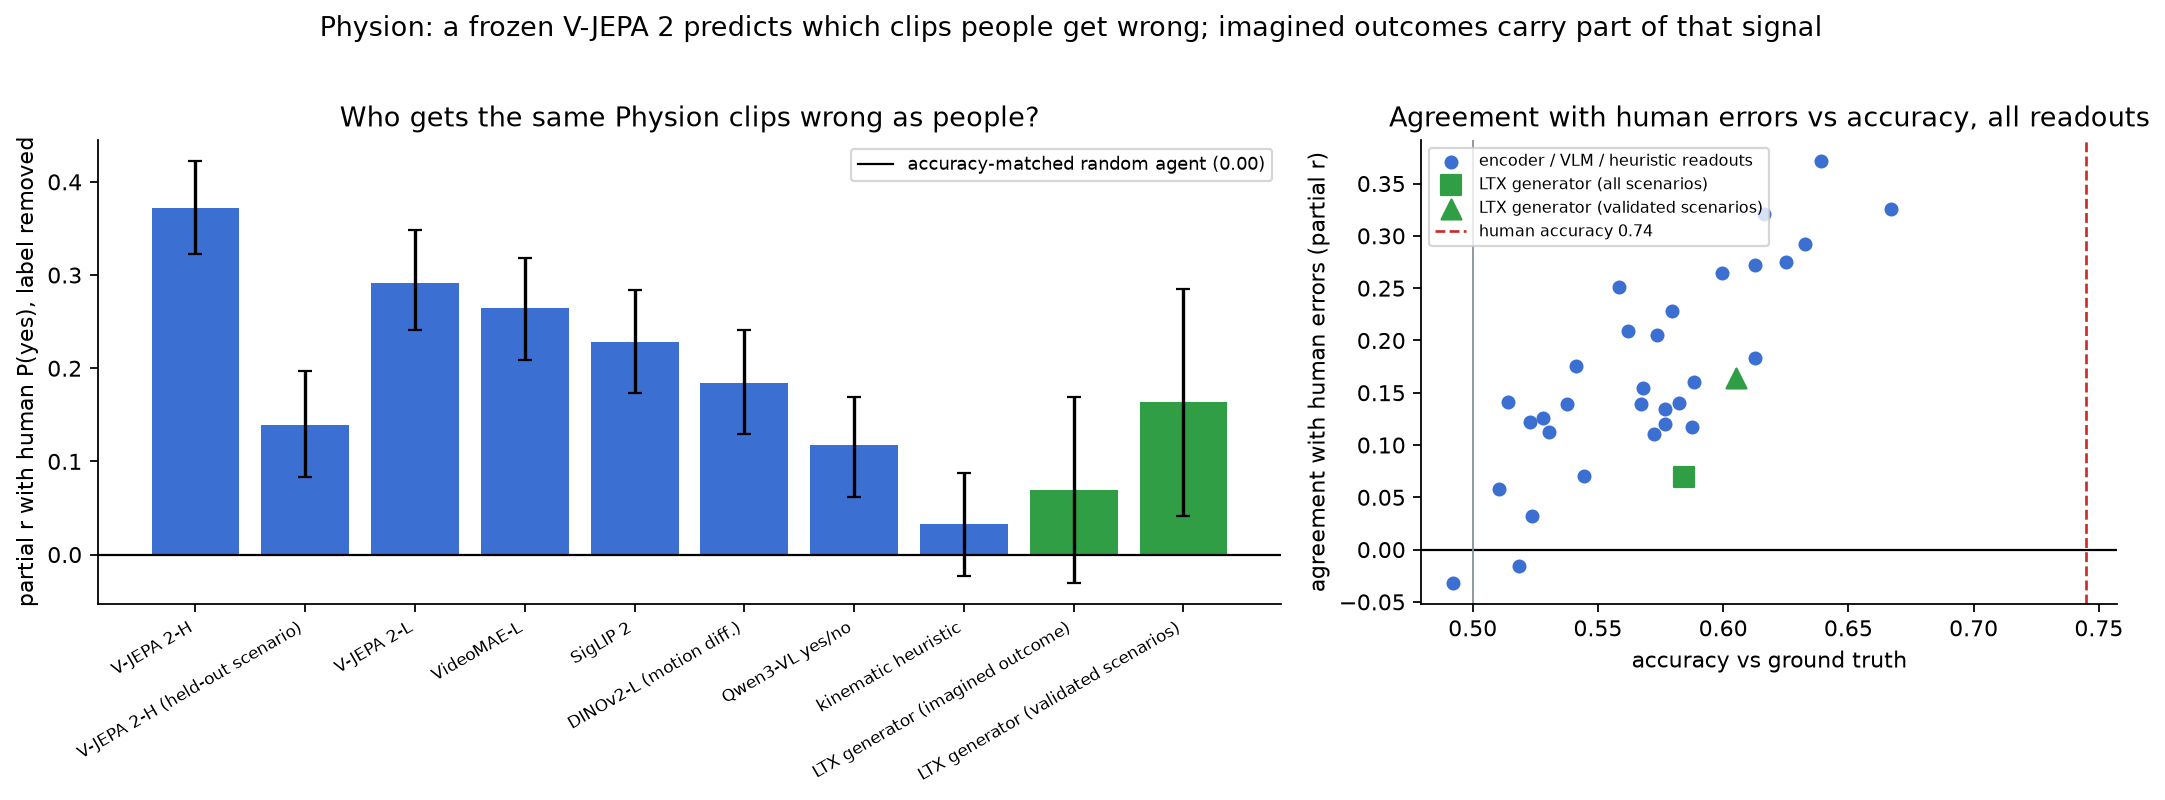
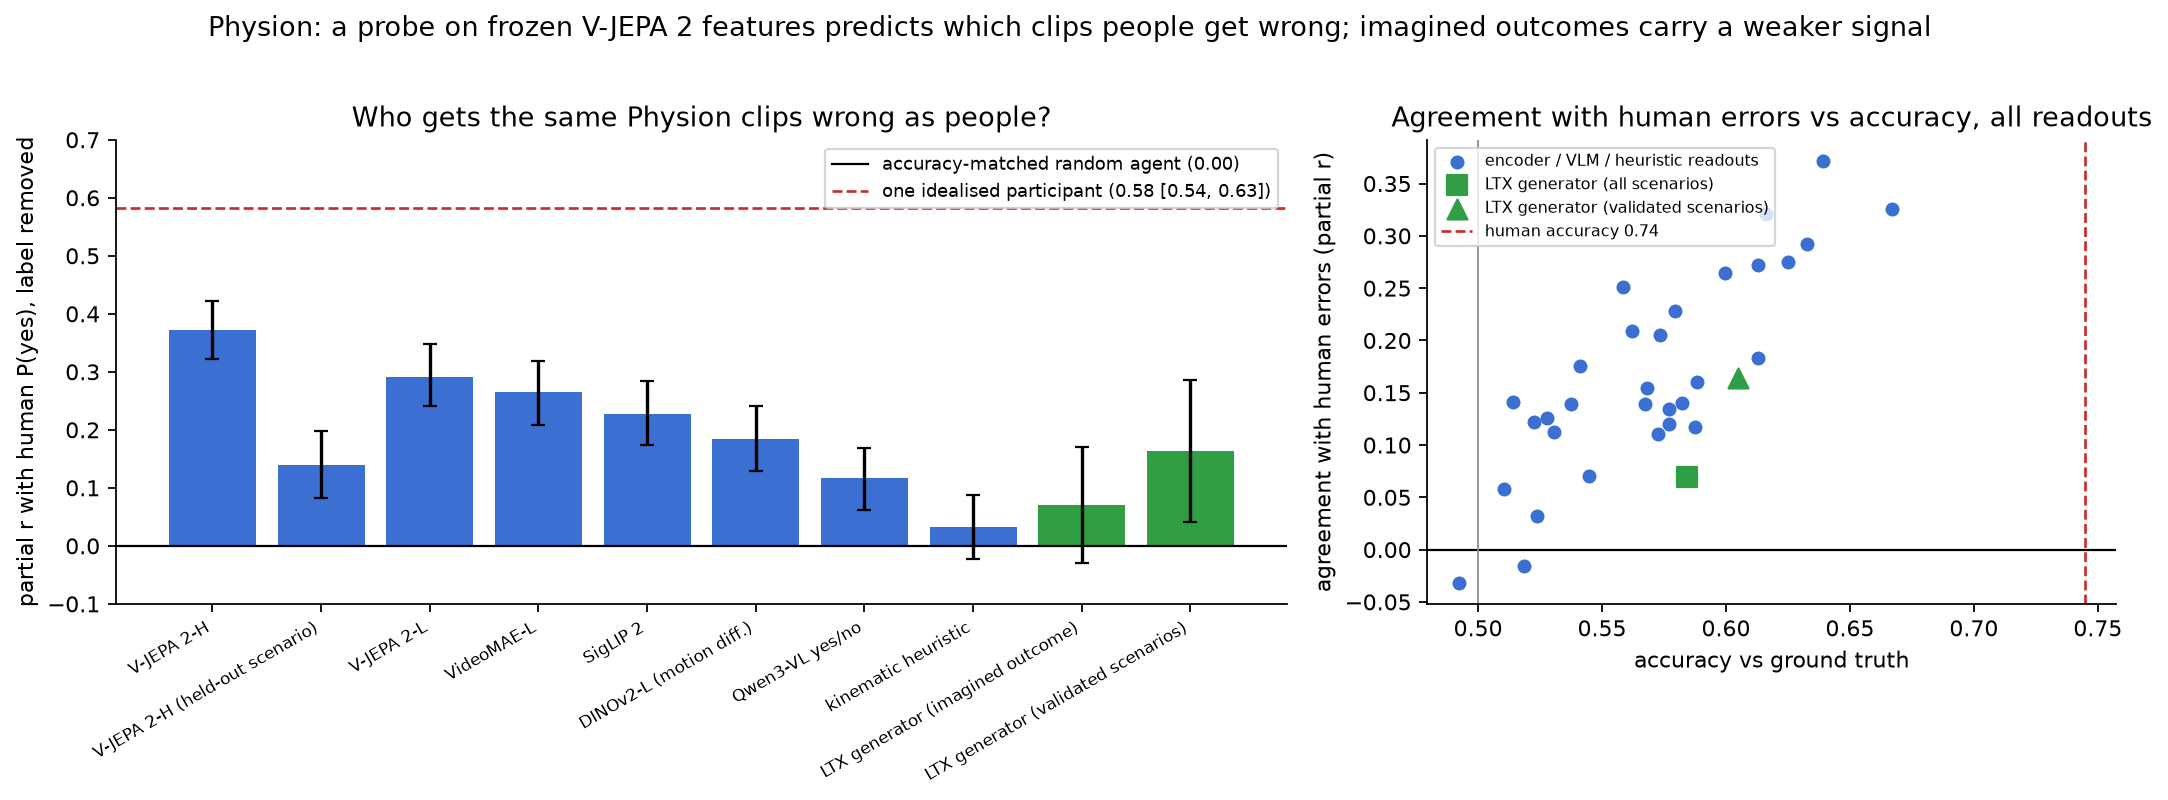
Review corrections: detector accuracy, generator comparators, selection disclosure, participant ceiling, plane figure

diff --git a/scripts/make_readme_figures.py b/scripts/make_readme_figures.py
@@ -1,6 +1,6 @@
 """Figures for the README, built from the committed result files.
 
-Outputs docs/figures/{cloth_gap,physion_error_agreement,events_scale}.png and two cropped contact sheets.
+Outputs docs/figures/{cloth_gap,physion_error_agreement,events_scale,plane}.png and two cropped contact sheets.
 Run: python scripts/make_readme_figures.py
 """
 
@@ -14,6 +14,7 @@ import matplotlib
 matplotlib.use("Agg")
 import matplotlib.pyplot as plt  # noqa: E402
 import numpy as np  # noqa: E402
+import pandas as pd  # noqa: E402
 from PIL import Image  # noqa: E402
 
 REPO = Path(__file__).resolve().parents[1]
@@ -56,8 +57,21 @@ def cloth():
     fig.tight_layout(); fig.savefig(OUT / "cloth_gap.png", dpi=160, bbox_inches="tight"); plt.close(fig)
 
 
+def single_participant_ceiling(n_draws: int = 1000, seed: int = 0) -> tuple[float, float, float]:
+    """Partial r (given the label) of one idealised participant: one Bernoulli(P(yes)) draw per stimulus."""
+    st = pd.read_csv(RES / "physion" / "stimuli.csv")
+    h = st["p_yes_human"].to_numpy(float); y = st["label"].astype(str).str.lower().eq("true").to_numpy(float)
+    rng = np.random.default_rng(seed)
+    def partial(m):
+        rm = m - np.polyval(np.polyfit(y, m, 1), y); rh = h - np.polyval(np.polyfit(y, h, 1), y)
+        return float(np.corrcoef(rm, rh)[0, 1])
+    vals = np.array([partial((rng.random(len(h)) < h).astype(float)) for _ in range(n_draws)])
+    return float(vals.mean()), float(np.percentile(vals, 2.5)), float(np.percentile(vals, 97.5))
+
+
 def physion():
     p = json.load(open(RES / "physion" / "physion_results.json"))
+    ceil, ceil_lo, ceil_hi = single_participant_ceiling()
     pick = [("vjepaH/last_grid/within", "V-JEPA 2-H"), ("vjepaH/last_grid/loso", "V-JEPA 2-H\n(held-out scenario)"),
             ("vjepaL/last_slot/within", "V-JEPA 2-L"), ("vmaeL/last_grid/within", "VideoMAE-L"), ("siglip2/last/within", "SigLIP 2"),
             ("dinoL/last_minus_first/within", "DINOv2-L\n(motion diff.)"), ("vlm", "Qwen3-VL\nyes/no"), ("kinematic/within", "kinematic\nheuristic")]
@@ -76,6 +90,8 @@ def physion():
     fig, (a, b) = plt.subplots(1, 2, figsize=(13.5, 4.8), gridspec_kw={"width_ratios": [1.7, 1]})
     a.bar(x, vals, yerr=[vals - los, his - vals], color=cols, capsize=3)
     a.axhline(0, color="k", lw=1, label="accuracy-matched random agent (0.00)")
+    a.axhline(ceil, color=RED, ls="--", lw=1.2, label=f"one idealised participant ({ceil:.2f} [{ceil_lo:.2f}, {ceil_hi:.2f}])")
+    a.set_ylim(-0.1, 0.7)
     a.set_xticks(x); a.set_xticklabels([l.replace("\n", " ") for l in labels], fontsize=7.5, rotation=30, ha="right")
     a.set_ylabel("partial r with human P(yes), label removed")
     a.set_title("Who gets the same Physion clips wrong as people?"); a.legend(fontsize=8, loc="upper right")
@@ -89,7 +105,7 @@ def physion():
     b.axvline(hum, color=RED, ls="--", lw=1.2, label=f"human accuracy {hum:.2f}")
     b.set_xlabel("accuracy vs ground truth"); b.set_ylabel("agreement with human errors (partial r)")
     b.set_title("Agreement with human errors vs accuracy, all readouts"); b.legend(fontsize=7, loc="upper left")
-    fig.suptitle("Physion: a frozen V-JEPA 2 predicts which clips people get wrong; imagined outcomes carry part of that signal", y=1.02, fontsize=12)
+    fig.suptitle("Physion: a probe on frozen V-JEPA 2 features predicts which clips people get wrong; imagined outcomes carry a weaker signal", y=1.02, fontsize=12)
     fig.tight_layout(); fig.savefig(OUT / "physion_error_agreement.png", dpi=160, bbox_inches="tight"); plt.close(fig)
 
 
@@ -116,6 +132,62 @@ def events():
     fig.tight_layout(); fig.savefig(OUT / "events_scale.png", dpi=160, bbox_inches="tight"); plt.close(fig)
 
 
+def plane():
+    """Accuracy x human-likeness plane for both studies (best layer / pooling per model, as in the tables)."""
+    c = json.load(open(RES / "cloth" / "cloth_results.json"))
+    p = json.load(open(RES / "physion" / "physion_results.json"))
+    fig, (a, b) = plt.subplots(1, 2, figsize=(12.5, 5.2))
+    off = {"dinog": (4, -9), "siglip2": (-44, 6), "vjepaH": (4, -9)}
+    for s_ in c["summary"]:
+        m = s_["model"]; L = c["models"][m]["layers"][s_["best_layer"]]["occluded"]
+        x, y = L["cells"]["same_category"], L["r_same"]["mean"]
+        a.scatter(x, y, c=BLUE, s=46, zorder=3); a.annotate(NAMES[m], (x, y), fontsize=7, xytext=off.get(m, (4, 3)), textcoords="offset points")
+        dd = L["dedrape_loco"]; a.scatter(dd["cells"]["same_category"], dd["r_same"]["mean"], marker="o", facecolors="none", edgecolors=ORANGE, s=46, zorder=3)
+        im = L["imagine_drape"]; a.scatter(im["cells"]["same_category"], im["r_same"]["mean"], marker="s", c=GREEN, s=30, zorder=3)
+    pb = c["reference"]["PbAS"]["occluded"]["unlimited"]; hum = c["human"]["cells"]["occluded/unlimited"]["same_category"]
+    ceil = c["human"]["ceiling"]["occluded"]["same_category"]["mean"]
+    a.scatter(pb["cells"]["same_category"], pb["r_same"]["mean"], marker="*", c="k", s=150, zorder=4)
+    a.annotate("PbAS (physics engine)", (pb["cells"]["same_category"], pb["r_same"]["mean"]), fontsize=8, xytext=(-108, 6), textcoords="offset points")
+    a.axhline(0, color=GREY, lw=1, ls="--"); a.axhline(ceil, color=GREY, lw=1, ls=":"); a.text(0.56, ceil + 0.015, f"split-half ceiling {ceil:.2f}", fontsize=7.5, color=GREY)
+    a.axvline(hum, color=GREY, lw=1, ls=":"); a.text(hum + 0.007, 0.55, f"humans {hum:.2f}", fontsize=7.5, color=GREY, rotation=90)
+    a.axvline(0.5, color="lightgray", lw=1); a.text(0.503, 0.76, "chance", fontsize=7, color=GREY)
+    a.text(0.31, -0.05, "accuracy-matched random agent: r = 0", fontsize=7.5, color=GREY)
+    a.set_xlim(0.3, 0.85); a.set_ylim(-0.25, 0.8); a.set_xlabel("accuracy, occluded same-category trials"); a.set_ylabel("trial-level r with human accuracy")
+    a.set_title("Shape under cloth (60 hard trials, 25 people per cell)", fontsize=11)
+    from matplotlib.lines import Line2D
+    a.legend(handles=[Line2D([], [], marker="o", color=BLUE, ls="", label="frozen encoder, paper protocol (best layer)"),
+                      Line2D([], [], marker="o", markerfacecolor="none", color=ORANGE, ls="", label="linear de-draping map (held-out category)"),
+                      Line2D([], [], marker="s", color=GREEN, ls="", label="SDXL in the analysis-by-synthesis loop"),
+                      Line2D([], [], marker="*", color="k", ls="", markersize=10, label="PbAS")], fontsize=7.5, loc="lower right")
+    lab = {"vjepaH/last_grid/within": ("V-JEPA 2-H probe", (4, 3)), "vjepaH/last_grid/loso": ("V-JEPA 2-H probe (held-out scenario)", (-60, -11)),
+           "vjepaL/last_slot/within": ("V-JEPA 2-L probe", (4, 3)), "vmaeL/last_grid/within": ("VideoMAE-L probe", (4, 3)),
+           "vmaeL/last_grid/loso": ("VideoMAE-L probe (held-out)", (4, -9)), "siglip2/last/within": ("SigLIP 2 probe", (4, 3)),
+           "dinoL/last_minus_first/within": ("DINOv2-L probe", (4, 3)), "vlm": ("Qwen3-VL", (4, 3)), "kinematic/within": ("kinematic heuristic", (4, 3))}
+    for k, (l, o) in lab.items():
+        r_ = p["readouts"][k]["all"]; b.scatter(r_["accuracy"], r_["partial_r_given_label"], c=BLUE, s=46, zorder=3)
+        b.annotate(l, (r_["accuracy"], r_["partial_r_given_label"]), fontsize=7, xytext=o, textcoords="offset points")
+    g = p["generator"]["ltx"]["p_cal"]
+    b.scatter(g["all"]["accuracy"], g["all"]["partial_r_given_label"], marker="s", c=GREEN, s=46, zorder=3)
+    b.annotate("LTX imagined outcome (all scenarios)", (g["all"]["accuracy"], g["all"]["partial_r_given_label"]), fontsize=7, xytext=(4, -9), textcoords="offset points")
+    b.scatter(g["primary"]["accuracy"], g["primary"]["partial_r_given_label"], marker="^", c=GREEN, s=60, zorder=3)
+    b.annotate("LTX imagined outcome\n(validated scenarios)", (g["primary"]["accuracy"], g["primary"]["partial_r_given_label"]), fontsize=7, xytext=(-8, -24), textcoords="offset points", ha="right")
+    sp, _, _ = single_participant_ceiling()
+    b.axhline(sp, color=RED, lw=1, ls="--"); b.text(0.455, sp + 0.01, f"one idealised participant {sp:.2f}", fontsize=7.5, color=RED)
+    b.axhline(0, color=GREY, lw=1, ls="--"); b.text(0.455, 0.012, "accuracy-matched random agent: partial r = 0", fontsize=7.5, color=GREY)
+    hum_p = np.mean(list(p["human"]["accuracy_by_scenario"].values()))
+    b.axvline(hum_p, color=GREY, lw=1, ls=":"); b.text(hum_p + 0.005, 0.25, f"humans {hum_p:.2f}", fontsize=7.5, color=GREY, rotation=90)
+    b.axvline(0.5, color="lightgray", lw=1); b.text(0.503, 0.62, "chance", fontsize=7, color=GREY)
+    b.set_xlim(0.45, 0.8); b.set_ylim(-0.08, 0.66); b.set_xlabel("accuracy vs ground truth (1.5 s context)"); b.set_ylabel("partial r with human P(yes), label removed")
+    b.set_title("Physion (1,144 clips, 66-96 people each)", fontsize=11)
+    b.legend(handles=[Line2D([], [], marker="o", color=BLUE, ls="", label="probe on frozen features / VLM / heuristic"),
+                      Line2D([], [], marker="s", color=GREEN, ls="", label="LTX-Video imagined outcome, all"),
+                      Line2D([], [], marker="^", color=GREEN, ls="", label="LTX-Video imagined outcome, validated")], fontsize=7.5, loc="upper left")
+    for ax in (a, b):
+        ax.grid(alpha=0.25)
+    fig.suptitle("The accuracy x human-likeness plane: accurate is not the same as human-like", fontsize=12)
+    fig.tight_layout(); fig.savefig(OUT / "plane.png", dpi=170); plt.close(fig)
+
+
 def sheets():
     im = Image.open(RES / "cloth" / "imagined_contact_sheet.png")
     im.save(OUT / "cloth_imagined.png")
@@ -128,5 +200,6 @@ if __name__ == "__main__":
     cloth()
     physion()
     events()
+    plane()
     sheets()
     print("wrote", sorted(p.name for p in OUT.glob("*.png")))

diff --git a/FINDINGS.md b/FINDINGS.md
@@ -156,6 +156,8 @@ The resolvable difference is a normal-approximation sensitivity estimate, not a 
 | vjepaH (L24) | 654M | 0.62 / 0.62 | 0.68 | 0.03 [−0.04, 0.11] | −0.41 | 0.60 / 0.65 | 0.05 | 0.50 / 0.09 | < .001 |
 | Qwen3-VL 2AFC | 8B | 0.53 / 0.38 | 0.75 | 0.25 | — | — | — | — | — |
 
+Selection note (added 2 Nov): the layer per model was chosen by this same r over 3–11 layers; medians over layers are −0.05 to 0.14 and a pre-specified final layer gives −0.13 to 0.14 (V-JEPA 2-L 0.14 [0.07, 0.21]; others ≤ 0.10). With 60 trials the expected maximum of seven null correlations is ≈ 0.18, so the best-layer values are upper bounds. PbAS keeps its correlation when any encoder is partialled out (0.48 [0.34, 0.54] over participants, [0.27, 0.66] over trials); the encoders' partial correlations given PbAS are 0.16 [−0.10, 0.40] (DINOv2-B) and 0.07 [−0.21, 0.33] (SigLIP 2) over trials. The cloth cost (unoccluded minus occluded same-category accuracy) is 0.07–0.23 for the models and 0.13 for people; the larger model deficit is on pose-changed trials without cloth. Margin–RT values are over all 120 occluded trials and partly reflect the category contrast; within same-category trials SigLIP 2 gives −0.22 [−0.44, 0.02] and DINOv2-B −0.24 [−0.47, 0.03].
+
 Decision rules (set before the run): gap closed if any lower bound ≥ 0.33 → **not met**. Decodable-but-not-used if held-out-category accuracy ≥ 0.60 with r upper bound < 0.33 → **met** (dinoB, dinog, vjepaH, clipL). Imagination helps if ≥ 0.10 accuracy gain on the hard cell → **not met** (SDXL wraps texture around the object instead of draping; un-draping fails). Margin–RT: four of eight models at ρ ≤ −0.32; intervals not yet computed. DINOv3 was not run (gated checkpoint). The video-generation route (LTX-Video) produced no clips in its first run.
 
 ### Limits
@@ -184,7 +186,7 @@ The dissociation of Pilot 0 holds across model sizes: static feature change pred
 
 ### Measurement
 
-Per-stimulus colour models (red agent, yellow patient) calibrated on the released first-frame maps; contact relative to the end of the context (approach within 2 px, overlap gain > 10 %, or vanishing inside a container). On the **real** outcome frames: 0.81 accuracy overall (dominoes 0.88, support 0.90, roll 0.90, collide 0.78, drop 0.73, drape 0.74, contain 0.66, link 0.58). Scenarios ≥ 0.75 form the primary set. A per-scenario logistic calibration of detector features, fitted on real outcomes only, converts detector outputs to probabilities (CV accuracy 0.95 / 0.93 / 0.89 / 0.85 / 0.77 / 0.72 / 0.68 / 0.64).
+Per-stimulus colour models (red agent, yellow patient) calibrated on the released first-frame maps; contact relative to the end of the context (approach within 2 px, overlap gain > 10 %, or vanishing inside a container). On the **real** outcome frames: 0.77 accuracy overall for the rule readout and 0.80 for the per-scenario calibrated readout (rule by scenario: dominoes 0.88, support 0.90, roll 0.90, collide 0.78, drop 0.73, drape 0.74, contain 0.66, link 0.58). Scenarios ≥ 0.75 form the primary set. A per-scenario logistic calibration of detector features, fitted on real outcomes only, converts detector outputs to probabilities (CV accuracy 0.95 / 0.93 / 0.89 / 0.85 / 0.77 / 0.72 / 0.68 / 0.64).
 
 ### Readouts and metrics
 
@@ -205,15 +207,20 @@ Encoders (V-JEPA 2 L/H, VideoMAE-L, DINOv2-L, SigLIP 2) with a logistic readout 
 | **LTX-Video imagined outcome (calibrated)**, all scenarios | 320 | 0.58 | 0.17 | 0.13 | 0.07 [−0.03, 0.17] |
 | **LTX-Video imagined outcome (calibrated)**, validated scenarios | 200 | — | — | — | **0.16 [0.04, 0.29]** |
 
-Paired on the generator's subset, validated scenarios (generator minus readout, partial r): vs kinematic +0.20 [+0.07, +0.35]; vs DINOv2-L (loso) +0.24 [+0.07, +0.40]; vs SigLIP 2 (loso) +0.21 [+0.03, +0.39]; vs V-JEPA 2-H (within) −0.13 [−0.29, +0.05]; on all scenarios vs V-JEPA 2-H −0.35 [−0.48, −0.22]. The generator's accuracy profile across scenarios correlates with the human profile at Spearman 0.68; its error agreement is highest in collide (0.30) and support (0.32).
+Paired on the generator's subset, validated scenarios (generator minus readout, partial r): vs kinematic +0.14 [0.00, +0.29] (within-scenario probe) and +0.20 [+0.07, +0.35] (held-out probe); vs DINOv2-L last-frame probe +0.24 [+0.07, +0.40] (held-out) but −0.06 [−0.21, +0.11] against the motion-difference probe shown in the table; vs SigLIP 2 last-frame probe +0.21 [+0.03, +0.39] (held-out) but +0.03 [−0.14, +0.19] (within) and −0.12 [−0.27, +0.03] against its motion-difference probe; vs Qwen3-VL −0.04 [−0.16, +0.09]; vs V-JEPA 2-H (within) −0.13 [−0.29, +0.05]; on all scenarios vs V-JEPA 2-H −0.35 [−0.48, −0.22]. So the generator beats the kinematic heuristic and the held-out static probes, not the within-scenario static probes or the VLM. Its accuracy profile across scenarios correlates with the human profile at Spearman 0.68 (p = .06), but the kinematic heuristic (0.90) and the VLM (0.86) track it more closely. Per scenario, two of eight intervals exclude zero (collide 0.30 [0.01, 0.57], support 0.32 [0.10, 0.54]); 0.4 would be expected by chance.
+
+Re-analysis (2 Nov): one idealised participant (a single Bernoulli draw per clip from the group P(yes)) scores partial r 0.58 [0.54, 0.63], the natural ceiling for one model; V-JEPA 2-H's probe is 64 % of it within scenario and 24 % held out, the generator 26 %. Given the VLM's yes/no on the same clips, the generator's unique agreement is 0.06 [−0.06, 0.18]; a generator + VLM hybrid gains +0.00 [−0.02, +0.02] over the VLM. The generator's agreement comes from consensus clips (P(yes) ≤ 0.25 or ≥ 0.75: 0.21 [0.08, 0.35]); on contested clips it is −0.17 [−0.43, 0.11]. Across four bins of its calibrated P(contact) the true-contact rate moves from 0.41 to 0.69. Correcting for detector attenuation (sensitivity 0.84, specificity 0.91 on validated real outcomes) gives 0.21 [0.05, 0.37]. The rule readout gives 0.14 [0.04, 0.25] on all and 0.11 [−0.03, 0.25] on validated scenarios; the next run names one readout in advance.
 
 Decision rules (set before the run): H1 generator > best encoder on validated scenarios → **not met**; H2 generator exceeds the accuracy-matched null by ≥ 0.10 on validated scenarios → **met** (0.16); H3 scenario profile ≥ 0.6 and above every readout → **not met** (0.68, below several readouts).
 
 ### Reading
 
-A frozen prediction-trained encoder carries human-like physical expectation: with a linear readout it predicts which clips people get wrong at r ≈ 0.4 where an agent of equal accuracy predicts nothing. A current 2B video generator's imagined outcome carries part of the same signal, zero-shot, above static and kinematic readouts on the scenarios where the measurement is valid, but less than the encoder; its outcome accuracy (0.58) is the bottleneck. Within-scenario readouts use label supervision on other Physion stimuli; the leave-one-scenario-out and generator numbers do not.
+A probe on a frozen video encoder's features predicts which clips people get wrong at r ≈ 0.4 within scenario (0.14–0.20 across scenarios) where an agent of equal accuracy predicts nothing; this is "decodable" human error structure, and reconstruction-trained VideoMAE transfers across scenarios as well as prediction-trained V-JEPA 2. The supervision-free readouts ("used"), a 2B generator's rendered future and a VLM's answer, carry about a quarter of one participant's agreement, and the generator adds nothing beyond the VLM. The gap between 0.37 and 0.16 is the decodable–used gap measured in one dataset.
 
 ## Corrections log
 
 - **Scaling.** Within-scene z-scoring was transductive on covariates. With training-fold-only scaling, the DINOv2 gain is about half the original (+8.9 vs +17.4); both are reported.
+- **Physion detector accuracy (2 Nov).** An earlier draft and the README gave the detector's overall accuracy on real outcomes as 0.81; the committed result files give 0.77 (rule) and 0.80 (calibrated). Corrected.
+- **Physion comparators (2 Nov).** Three paired comparisons for the generator were quoted against held-out versions of the static probes while the table showed within-scenario versions; against the table's variants the generator does not win. Both are now shown and the claim is narrowed.
+- **Selection (2 Nov).** Cloth layers and Physion poolings were chosen by the reported statistic; pre-specified and median variants are now shown next to the selected values. The next run names them in advance.
 - **Wording.** The slowdown duration was first written as "125 ms", taken from the file names; the paper reports 158–190 ms. The boundary-attenuation figure was first described as a share "explained"; it is coefficient attenuation.

diff --git a/README.md b/README.md
@@ -68,12 +68,15 @@ Data: [Yildirim et al. (2024)](https://www.nature.com/articles/s41562-023-01759-
 
 Table, figures and the imagined contact sheet: [results/cloth](results/cloth/cloth_results.md).
 
-### 4. Generators as simulators on Physion: people and V-JEPA 2 get the same clips wrong
+### 4. Generators as simulators on Physion: a probe on V-JEPA 2 features predicts which clips people get wrong
 
-Data: [Physion](https://github.com/cogtoolslab/physics-benchmarking-neurips2021) (Bear et al. 2021), 1,144 test clips with per-stimulus human predictions (66–96 participants each; reliability 0.99). People saw 1.5 s and predicted whether the red object would touch the yellow area. Key metric: the partial correlation between model and human P(yes) after the ground-truth label is regressed out of both, i.e. agreement on *which* clips are judged wrongly; accuracy-matched random agents score 0.00.
+Data: [Physion](https://github.com/cogtoolslab/physics-benchmarking-neurips2021) (Bear et al. 2021), 1,144 test clips with per-stimulus human predictions (66–96 participants each; reliability 0.99). People saw 1.5 s and predicted whether the red object would touch the yellow area. Key metric: the partial correlation between model and human P(yes) after the ground-truth label is regressed out of both, i.e. agreement on *which* clips are judged wrongly. Accuracy-matched random agents score 0.00 on it (0.19 on raw r and 0.17 on κ at V-JEPA 2-H's accuracy); one idealised participant, a single Bernoulli draw per clip from the group P(yes), scores 0.58 [0.54, 0.63]. We call a supervised probe on frozen features "decodable" and a readout with no supervision from the paradigm "used".
 
-- **A frozen V-JEPA 2-H with a linear readout predicts human error patterns:** partial r = 0.37 [0.32, 0.42], κ with the human majority 0.37, accuracy 0.64 (humans 0.74). Trained on the other seven scenarios it still transfers (0.14 [0.08, 0.20]). Static encoders carry less (SigLIP 2 0.23, DINOv2-L 0.18), the VLM 0.12, a kinematic heuristic 0.03.
-- **A video generator's imagined outcome is human-like, but less so.** LTX-Video 2B continues the 1.5 s context zero-shot; a contact detector validated on the real outcomes (0.81; five scenarios pass the ≥ 0.75 gate) reads the imagined result. On the validated scenarios the imagined contact agrees with human errors at 0.16 [0.04, 0.29], above the static and kinematic readouts (paired lower bounds > 0) and below V-JEPA 2 (−0.13 [−0.29, +0.05]). Accuracy 0.58; the bottleneck is continuation quality.
+- **Decodable: a linear probe on frozen V-JEPA 2-H features predicts human error patterns.** Partial r = 0.37 [0.32, 0.42] within scenario (0.32–0.37 across three poolings), κ with the human majority 0.37, accuracy 0.64 (humans 0.74): 64 % of one idealised participant. Trained on the other seven scenarios it transfers at 0.14 [0.08, 0.20]; VideoMAE-L, a reconstruction model, transfers at 0.20 [0.15, 0.26]. Static probes reach 0.23 within scenario, the VLM 0.12, a kinematic heuristic 0.03.
+- **Used: a video generator's imagined outcome carries a weaker, non-unique signal.** LTX-Video 2B continues the 1.5 s context (one sample per clip); a contact detector validated on the real outcomes (0.77 rule / 0.80 calibrated overall; five scenarios pass the ≥ 0.75 gate) reads the imagined result. On the validated scenarios the imagined contact agrees with human errors at 0.16 [0.04, 0.29] (0.21 after correction for detector noise): above the kinematic heuristic (+0.14 [0.00, +0.29] paired), not above the static motion-difference probes (−0.06 [−0.21, +0.11] vs DINOv2-L) or the VLM (−0.04 [−0.16, +0.09]), and below the V-JEPA 2-H probe (−0.13 [−0.29, +0.04]). Given the VLM's answer its unique agreement is 0.06 [−0.06, 0.18]. Accuracy 0.61 on those scenarios; across its confidence bins the true-contact rate moves only from 0.41 to 0.69.
+
+<p align="center"><img src="docs/figures/plane.png" alt="Accuracy x human-likeness plane for cloth and Physion" width="100%"><br>
+<sub>The accuracy × human-likeness plane. Left: shape under cloth (best layer per encoder). Right: Physion. Accurate is not the same as human-like in either study.</sub></p>
 
 <p align="center"><img src="docs/figures/physion_generated_last_frames.png" alt="Last frames of LTX-Video continuations" width="100%"><br>
 <sub>Last frames of LTX-Video continuations of the 1.5 s context (collide scenario); the contact detector reads these.</sub></p>
